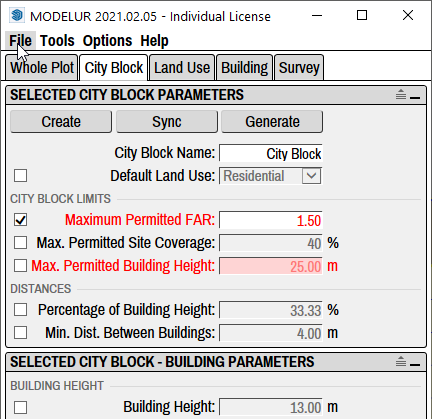
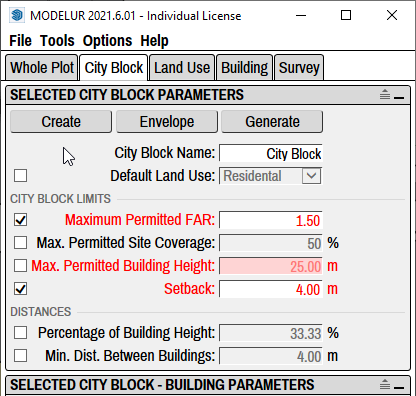
Describe setbacks

diff --git a/docs/reference/city_block.md b/docs/reference/city_block.md
@@ -26,7 +26,7 @@ Block of last Building selected (assuming it is placed on a City Block).
 
 #### Buttons ####
 
-**Create**
+##### Create
 
 Create _button_ is used to create City Block, the same way as by clicking on 
 the yellow _Create City Block_ icon in Modelur Toolbar. If no Face or Edge Loop 
@@ -45,27 +45,29 @@ respectively.
 When created, City Blocks are locked by default. You can change this setting in 
 Modelur menu Options → Lock City Blocks Upon Creation.
 
-**Sync**
+##### Envelope
 
-Sync _button_ is used to open the 
-[Sync City Block Parameters](../toolbar/#sync-city-block-parameters) 
-tool. With it you can easily transfer Parameter values from one City Block 
-to another.
+Envelope _button_ is used to toggle virtual *City Block Envelope* for the currently selected city blocks. 
 
-**Generate**
+![City Block Envelope](../img/envelope.png)
+<figcaption>Figure 4.42 - <strong>City Block Envelope</strong> is a transparent surface that visually represent <a href="#city-block-limits">city block limits</a>, namely <strong>the setback</strong> and 
+<strong>the maximal allowed building height</strong>.</figcaption>
+
+
+##### Generate
 
 Generate _button_ is used to quickly populate selected empty City Blocks with randomly generated buildings so that the [Maximal permitted FAR](#city-block-limits) is achieved. To set options for the [massing generator](../massing_generator) use *Tools -> Massing Generator* in the [menu](../menu).
 
-#### Name and Land Use ####
+#### Name and Land Use
 
-**City Block Name**
+##### City Block Name
 
 Using City Block Name parameter you can change City Block's name, which 
 is used to easily track different City Blocks. Alternatively you can also 
 rename the City Block in the SketchUp's Outliner or in the Entity Info 
 panel the same way as you would rename any other SketchUp Group when selected.
 
-**Default Land Use**
+##### Default Land Use
 
 Using Default Land Use _dropdown menu_ you can set the Land Use that will 
 be applied by default to each Building(s) in the City Block. Land Uses 
@@ -75,7 +77,7 @@ about these settings, please visit [Land Use section](../land_use)
 of this page.
 
 
-#### City Block Limits ####
+#### City Block Limits
 
 Under City Block Limits you can set the default constraints set by zoning 
 ordinance for specific City Block so that Modelur can warn you if they are 
@@ -83,15 +85,15 @@ exceeded. But it will not prevent you from exceeding them.
 
 In case your development model exceeds set constraints, they will 
 <span style="color:red">become red</span>, to warn you about it (Figure 
-4.42). Once the model is fixed to meet constraints again (or when zoning 
+4.43). Once the model is fixed to meet constraints again (or when zoning 
 ordinance constraints for selected City Blocks themselves are updated), 
 exceeded parameters will turn back to black.
 
 ![Exceeded City Block Limits](../img/modelur_exceeded_city_block_limits.png)
-<figcaption>Figure 4.42 - When text color in Modelur user interface turns 
+<figcaption>Figure 4.43 - When text color in Modelur user interface turns 
 red, the Parameters in question are exceeded.</figcaption>
 
-**Maximum Permitted FAR**
+##### Maximum Permitted FAR
 
 Using maximum permitted Floor Area Ratio you can define allowable FAR for 
 the selected City Block. In case FAR value of the City Block is exceeded, 
@@ -99,7 +101,7 @@ this line will become red, to warn you about it. If you don't want Modelur
 to validate achieved FAR for the selected City Block, simply erase this 
 value and hit ++enter++.
 
-**Max. Permitted Site Coverage**
+##### Max. Permitted Site Coverage
 
 Using maximum permitted Site Coverage you can define allowable Site 
 Coverage for the selected City Block. In case Site Coverage value for 
@@ -107,7 +109,7 @@ the selected City Block is exceeded, this line will become red, to warn
 you about it. If you don't want Modelur to validate achieved Site 
 Coverage for the selected City Block, simply erase this value and hit ++enter++.
 
-**Max. Permitted Building Height**
+##### Max. Permitted Building Height
 
 Using maximum permitted Building Height you can define height restrictions 
 for the selected City Block. In case some Building placed on the selected 
@@ -115,9 +117,25 @@ City block is higher than specified inhere, this line will become red, to
 warn you about it. If you don't want Modelur to validate Buildings Heights 
 for the selected City Block, simply erase this and hit ++enter++.
 
+##### Setback
+
+Setback can define limits on the City Block area, where buildings can be placed. Any building that is not within the
+setback will trigger warnings. The setback can have any positive value or it can be empty. If the value for the setback is *empty*, the setback warning is disabled.  If you don't want Modelur to validate setback 
+for the selected City Block, simply erase the value of the parameter and hit ++enter++.
+
+Users can also change area inside the setback manually. These are the steps to manually change the setback
+
+* unlock the Sektchup group of the city block
+* toggle the [city block envelope](#buttons) to be visible
+* enter the city block group and change the envelope group
+
+!!! warning
+
+    All manual changes of the setback area will be lost, if you set the *setback parameter* to a new value.
+
 #### Distances ####
 
-**Percentage of Building Height:**
+##### Percentage of Building Height
 
 Percentage of Building Height is used to calculate minimum distance 
 between two Buildings based on their heights. Example: if this parameter 
@@ -133,7 +151,7 @@ Buildings are placed closer than the calculated distance, they will
 be marked red (assuming that [Too low distance between 
 Buildings](../survey/#warnings) is active)._
 
-**Min. Dist. Between Buildings**
+##### Min. Dist. Between Buildings
 
 Minimum distance between Buildings is the absolute distance (in meters 
 or feet) between any two Buildings within the selected City Block. If 
@@ -174,13 +192,13 @@ Use, etc. as specified here or in the Whole Plot.
 
 #### Building Height ####
 
-**Building Height**
+##### Building Height
 
 Building height sets how tall should the Building be by default inside 
 selected City Block. When changing Number of Storeys, First Storey Height 
 and Other Storey Heights this parameter will adapt itself automatically.
 
-**Number of Storeys**
+##### Number of Storeys
 
 Number of storeys sets the default number of Building's storeys inside 
 selected City Block. When you change this parameter, Building Height 
@@ -188,9 +206,9 @@ selected City Block. When you change this parameter, Building Height
 height based on Number of Storeys and First and Other storeys Height 
 (described below).
 
-#### Building Areas ####
+#### Building Areas
 
-**Built-up Area**
+##### Built-up Area
 
 Built-up area sets the default floor area size of the [Building](../building) inside 
 selected City Block. Please note that this value will be automatically 
@@ -201,7 +219,7 @@ Building](../building/#editing-modes-of-building). Built-up Area
 will automatically be adapted if you change Gross Floor Area (described 
 below) to match the division of Gross Floor Area with Number of Storeys.
 
-**Gross Floor Area**
+##### Gross Floor Area
 
 Gross floor area parameter is used to define default gross floor area 
 size of the [Building](../building) inside the selected City Block. If Building is 
@@ -211,13 +229,13 @@ Number of Storeys).
 
 #### Storey Heights ####
 
-**First Storey Height**
+##### First Storey Height
 
 First storey height is used to set the default height of Building's 
 ground floor inside the selected City Block. Changing this parameter 
 will change default Building Height, too.
 
-**Other Storeys Height**
+##### Other Storeys Height
 
 Other storeys height is used to set the default height of all Building's 
 storeys above ground floor inside the selected City Block. Changing this 

diff --git a/docs/reference/menu.md b/docs/reference/menu.md
@@ -113,10 +113,22 @@ are _marked with a light blue color_ (Buildings 1000006 and 1000007 in the image
 If needed, (Complex) Buildings can also be _sorted by their values_. Simply click 
 on the name of the column you want to sort by.
 
-For Complex Buildings, details about Land Use and/or each Simple Building from which 
-it is constructed can be shown. Just select _Complex Buildings Land Uses_ and/or 
-_Complex Buildings Parts_ on top of the Window. These options are available for 
-selection only if _Complex Building_ option is selected.
+For Complex Buildings, the details about Land Use and/or each Simple Building from which 
+it is constructed can be shown. Select:
+
+* _Complex Buildings Land Uses_: additional lines will be shown for each Land Use that is present in the Complex Building
+* _Complex Buildings Parts_: additional lines will be shown for each simple building that is part of the complex building.
+
+These options are available only if _Complex Building_ option is selected.
+
+For City Blocks, the details about the Land Uses present on that City Block can be shown. Select:
+
+* _City Blocks Land Uses_: additional lines will be shown for each Land Use that is present on the City Block. 
+* _City Blocks Land Use Summary(Excel Sync Only)_: additional fields with land use summary will be added to [Excel Live Sync](../extensions_menu#send-modelur-data-to-excel-windows-only).
+
+These options are available only if _City Blocks_ option is selected.
+
+By selecting the option _Building Storey Gross Floor Areas (Excel Sync Only)_ the gross floor area for each storey (floor level) will be displayed for each (Complex) Building in [Excel Live Sync](../extensions_menu#send-modelur-data-to-excel-windows-only).
 
 #### Randomize Building Heights
 
@@ -129,13 +141,6 @@ the range between min and max values specified.
 
 This option helps create dynamic urban solutions, avoiding too uniform look of 
 the urban area.
-
-[//]: # (**Create Terrain**)
-
-[//]: # (Modelur allows you to add texture to your buildings and/or landscapes. 
-Select a surface, click on this tool and select a file with appropriate texture 
-from your computer. Valid texture file formats are: .png, .jpg, .psd, .bmp, 
-.tif and .tga.)
 
 #### Place Buildings on Selected Terrain
  
@@ -289,6 +294,11 @@ If this option is turned on, Modelur will make sure that all Modelur Building's
 Entities (Edges and Faces) are placed on the same layer as the Building itself. 
 The same is true for Complex Buildings and City Blocks. By default this option 
 is turned on.
+
+#### Show City Block Virtual Envelope
+
+If this option is turned on, the [City Block Virtual Envelope](../city_block#envelope) will be displayed for all 
+of the city blocks. You can turn the *City Block Envelope* on and off for the selected city blocks with [Envelope Button](../city_block) on the [City Block Tab](../city_block).
 
 #### Change Currency Symbol
 
